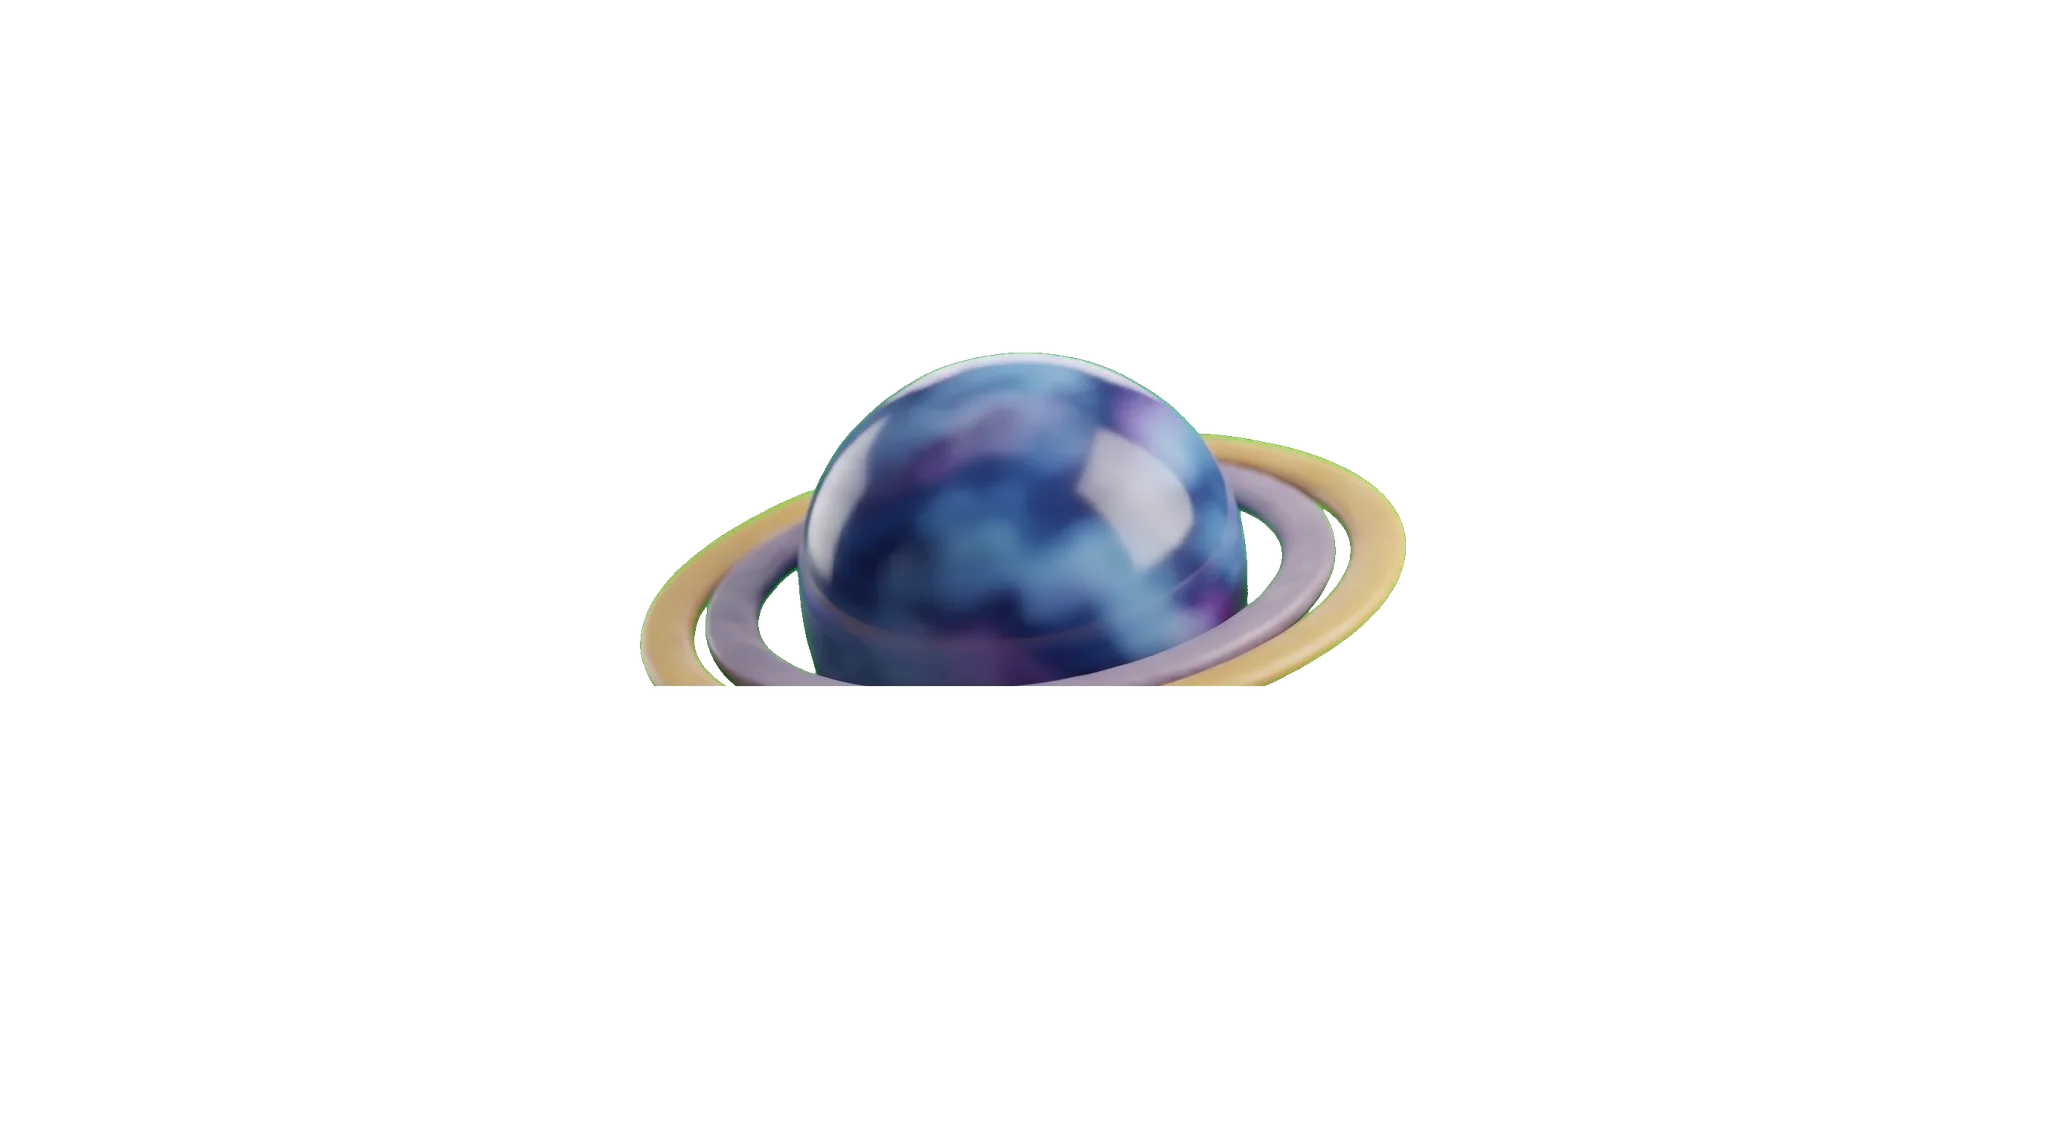
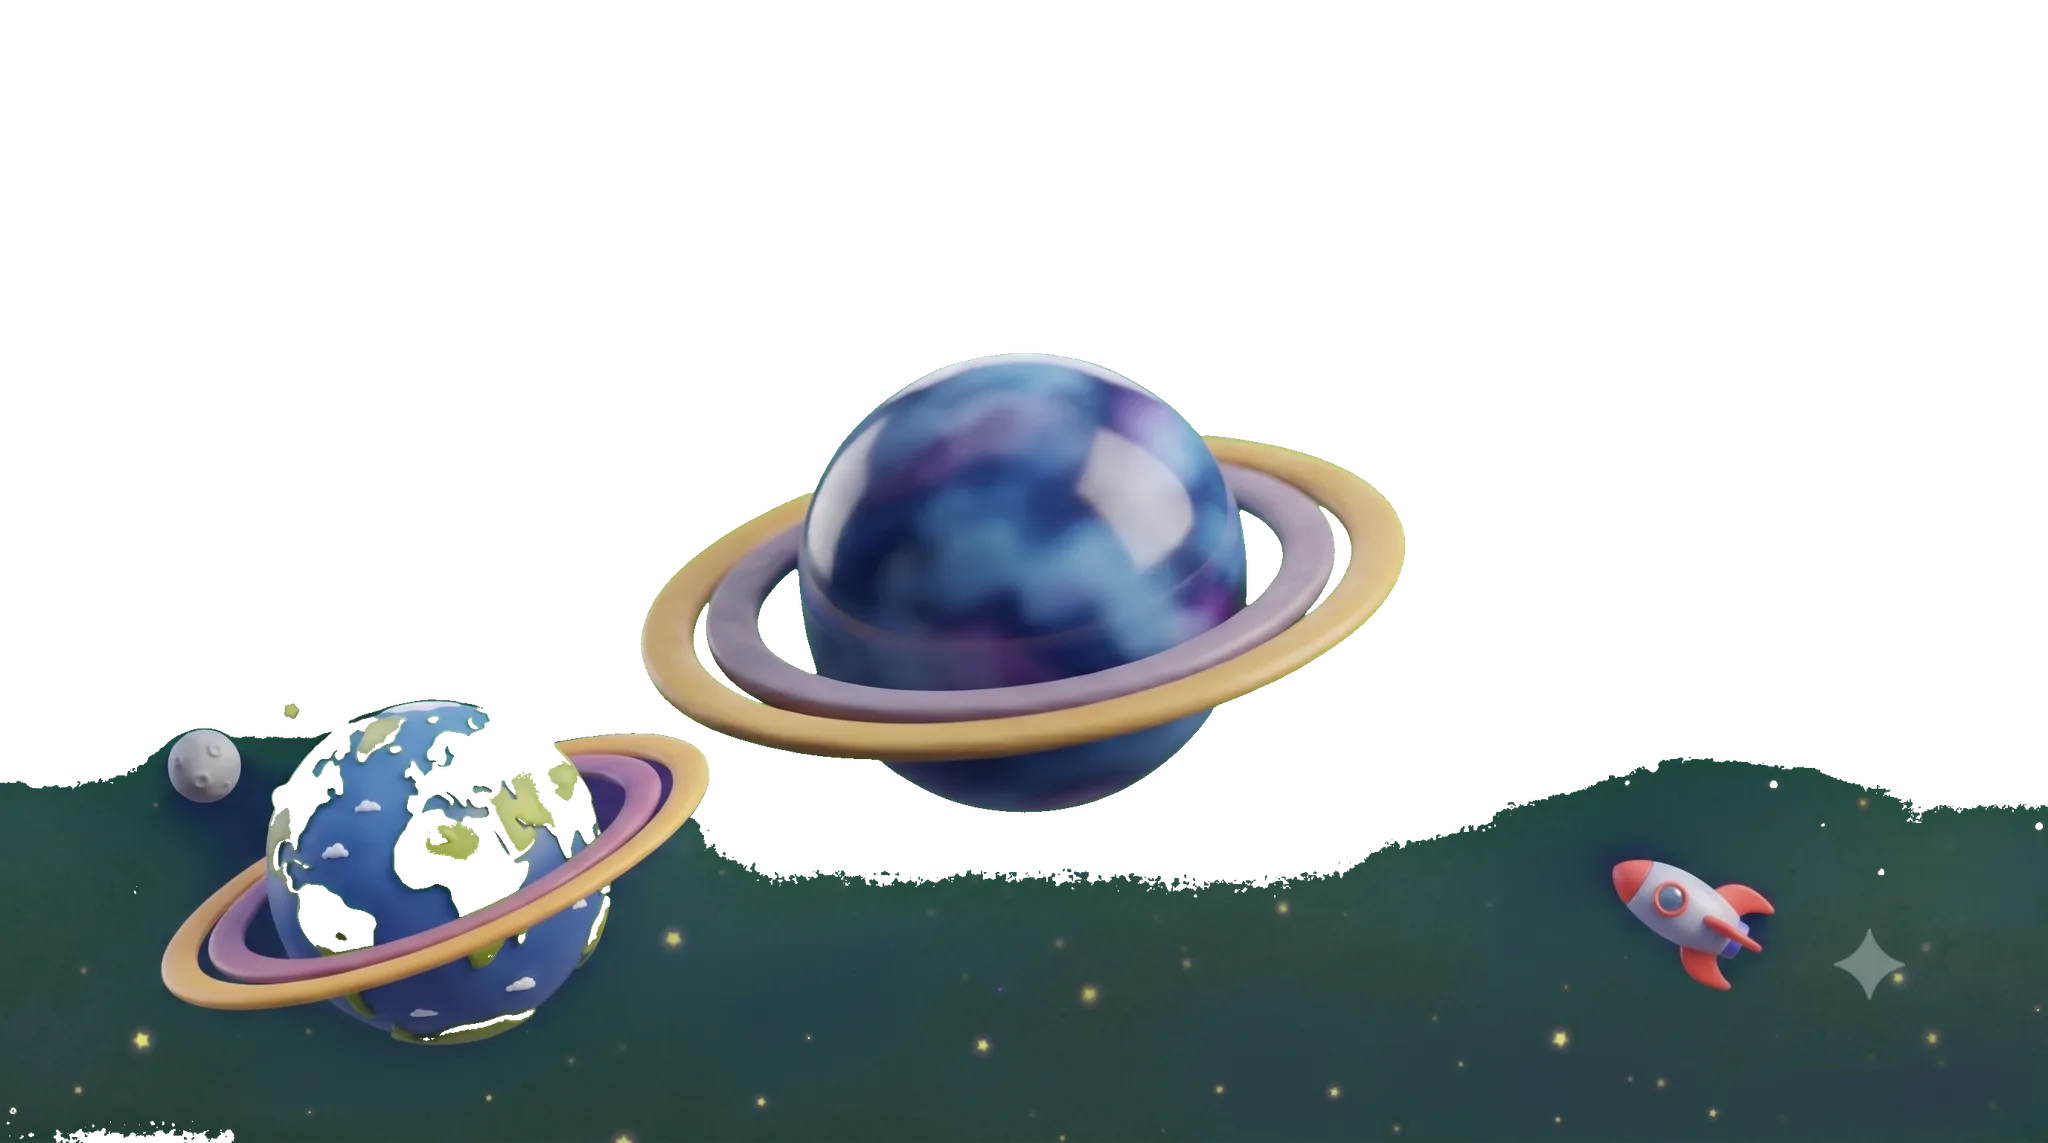
PRD-05: properly fix space ring cut + dino floating jungle
The earlier offsetY fix had a CSS bug — calc(x + -7%) is invalid, so the whole
transform dropped and the space asteroids never moved (dino's positive +10%
worked, which is why only dino changed). Fixed the sign formatting
(calc(x - N%)). Then addressed the roots:

- Rummet: the ring's hard edge was a baked clipBelowPct that sliced the planet.
  Re-keyed the space MID layer WHOLE — global green key + despill, no clip (the
  planet/ring has no green subject, so stripping all green + neutralising spill
  is safe and also kills the enclosed green inside the ring loop). Near
  asteroids nudged up (offsetY -4) to occlude the planet's lower bulge. Ring is
  now whole and clean.
- Dinosaurer: dropped the mid jungle further (offsetY 20) so its whole span,
  including over the volcano, meets the foreground — the floating green ribbon
  is gone.

Verified home + framed section menus + reduced-motion for both; kid/ocean
scanned (clean); tsc+build+lint clean, 0 console errors.

diff --git a/src/theme/tokens/space.tokens.ts b/src/theme/tokens/space.tokens.ts
@@ -54,10 +54,9 @@ export const spaceThemeTokens: ThemeTokens = {
     // Multi-layer parallax (PRD-05 W2). Index-aligned to SceneAssets.layers (far→mid→near).
     layers: [
       { src: '', depth: 0.12, anchor: 'center' }, // far: nebula + stars (dark backdrop)
-      { src: '', depth: 0.42, anchor: 'center' }, // mid: planet + ring
-      // near asteroids raised so they OCCLUDE the mid planet/ring bottom naturally (the ring passes
-      // behind the rocks) instead of the ring showing the mid layer's hard clipped edge.
-      { src: '', depth: 0.8, anchor: 'center', offsetY: -7 }, // near: asteroids + rocket
+      { src: '', depth: 0.42, anchor: 'center' }, // mid: planet + ring (whole — no clip)
+      // near asteroids nudged up a touch so they occlude the planet's lower bulge/smudge naturally.
+      { src: '', depth: 0.8, anchor: 'center', offsetY: -4 }, // near: asteroids + rocket
     ],
     ambient: {
       // B7 art motes (index-aligned to SceneAssets.ambientSprites): two soft stars, twinkling.

diff --git a/src/components/common/scene/ParallaxLayer.tsx b/src/components/common/scene/ParallaxLayer.tsx
@@ -29,7 +29,11 @@ const ParallaxLayer: React.FC<ParallaxLayerProps> = ({ spec, url, index }) => {
   // layer height, − = up) is added so independently-generated layers can be lined up.
   const tx = `calc(var(--parallax-x, 0px) * ${spec.depth})`
   const drift = anchor === 'center' ? `calc(var(--parallax-y, 0px) * ${spec.depth})` : '0px'
-  const ty = spec.offsetY ? `calc(${drift} + ${spec.offsetY}%)` : drift
+  // NB: format the sign explicitly — `calc(x + -7%)` is INVALID CSS (drops the whole transform);
+  // it must be `calc(x - 7%)`.
+  const ty = spec.offsetY
+    ? `calc(${drift} ${spec.offsetY < 0 ? '-' : '+'} ${Math.abs(spec.offsetY)}%)`
+    : drift
 
   return (
     <Box

diff --git a/src/theme/tokens/dino.tokens.ts b/src/theme/tokens/dino.tokens.ts
@@ -56,8 +56,9 @@ export const dinoThemeTokens: ThemeTokens = {
     // Multi-layer parallax (PRD-05 W2). Index-aligned to SceneAssets.layers (far→mid→near).
     layers: [
       { src: '', depth: 0.14, anchor: 'center' }, // far: sunrise sky + volcano
-      // mid jungle dropped so it meets the near ridge (no longer a green ribbon floating in the sky).
-      { src: '', depth: 0.44, anchor: 'center', offsetY: 10 }, // mid: jungle tree-line
+      // mid jungle dropped well down so its whole span (incl. the centre over the volcano) meets the
+      // near ridge — no longer a green ribbon floating in the sky.
+      { src: '', depth: 0.44, anchor: 'center', offsetY: 20 }, // mid: jungle tree-line
       { src: '', depth: 0.82, anchor: 'center' }, // near: mossy ridge
     ],
     ambient: {

diff --git a/plans/liveliness-overhaul/tmp-prd-liveliness-05-structured-world.md b/plans/liveliness-overhaul/tmp-prd-liveliness-05-structured-world.md
@@ -84,11 +84,14 @@ never require reading).
   height + depth-scale variation so bases sink INTO the reef/canopy/cloud bank (organic, not a row). Verified all
   4 skins + section + reduced-motion + phone-portrait.
 - **Layer-alignment fixes (owner-spotted compositing bugs):** independently-generated B3 layers didn't line up.
-  Added an optional `ParallaxLayerSpec.offsetY` (static vertical nudge, % of viewport) and used it to
-  (a) **Rummet:** raise the near asteroids (`offsetY:-7`) so Saturn's ring passes *behind* them instead of showing
-  the mid layer's hard clipped bottom edge; (b) **Dinosaurer:** drop the mid jungle (`offsetY:10`) so it meets the
-  foreground ridge instead of floating as a detached green ribbon in the sky. Verified home + framed section
-  menus. (kid/ocean scanned — no such artifact.)
+  Added `ParallaxLayerSpec.offsetY` (static vertical nudge, % of viewport; **NB the sign must be formatted as
+  `calc(x - N%)` — `calc(x + -N%)` is invalid CSS and silently drops the whole transform**, which bit the first
+  attempt). Fixes: (a) **Rummet:** the ring's hard bottom edge came from a `clipBelowPct` bake that sliced the
+  planet → **re-keyed the space mid WHOLE** (global green key + despill, no clip — the planet/ring has no green
+  subject so it's safe) and nudged the near asteroids up (`offsetY:-4`) to occlude the planet's lower bulge;
+  (b) **Dinosaurer:** dropped the mid jungle (`offsetY:20`) so its whole span (incl. over the volcano) meets the
+  foreground — no more floating green ribbon. Verified home + framed section menus + reduced-motion. (kid/ocean
+  scanned — no such artifact.)
 - **Known pre-existing issue (separate batch):** the B2 `colors.farvejagt` game icon has a baked-in white square
   behind the magnifying glass (its cut-out wasn't clean) — a prior-batch icon defect, not scene work.
 